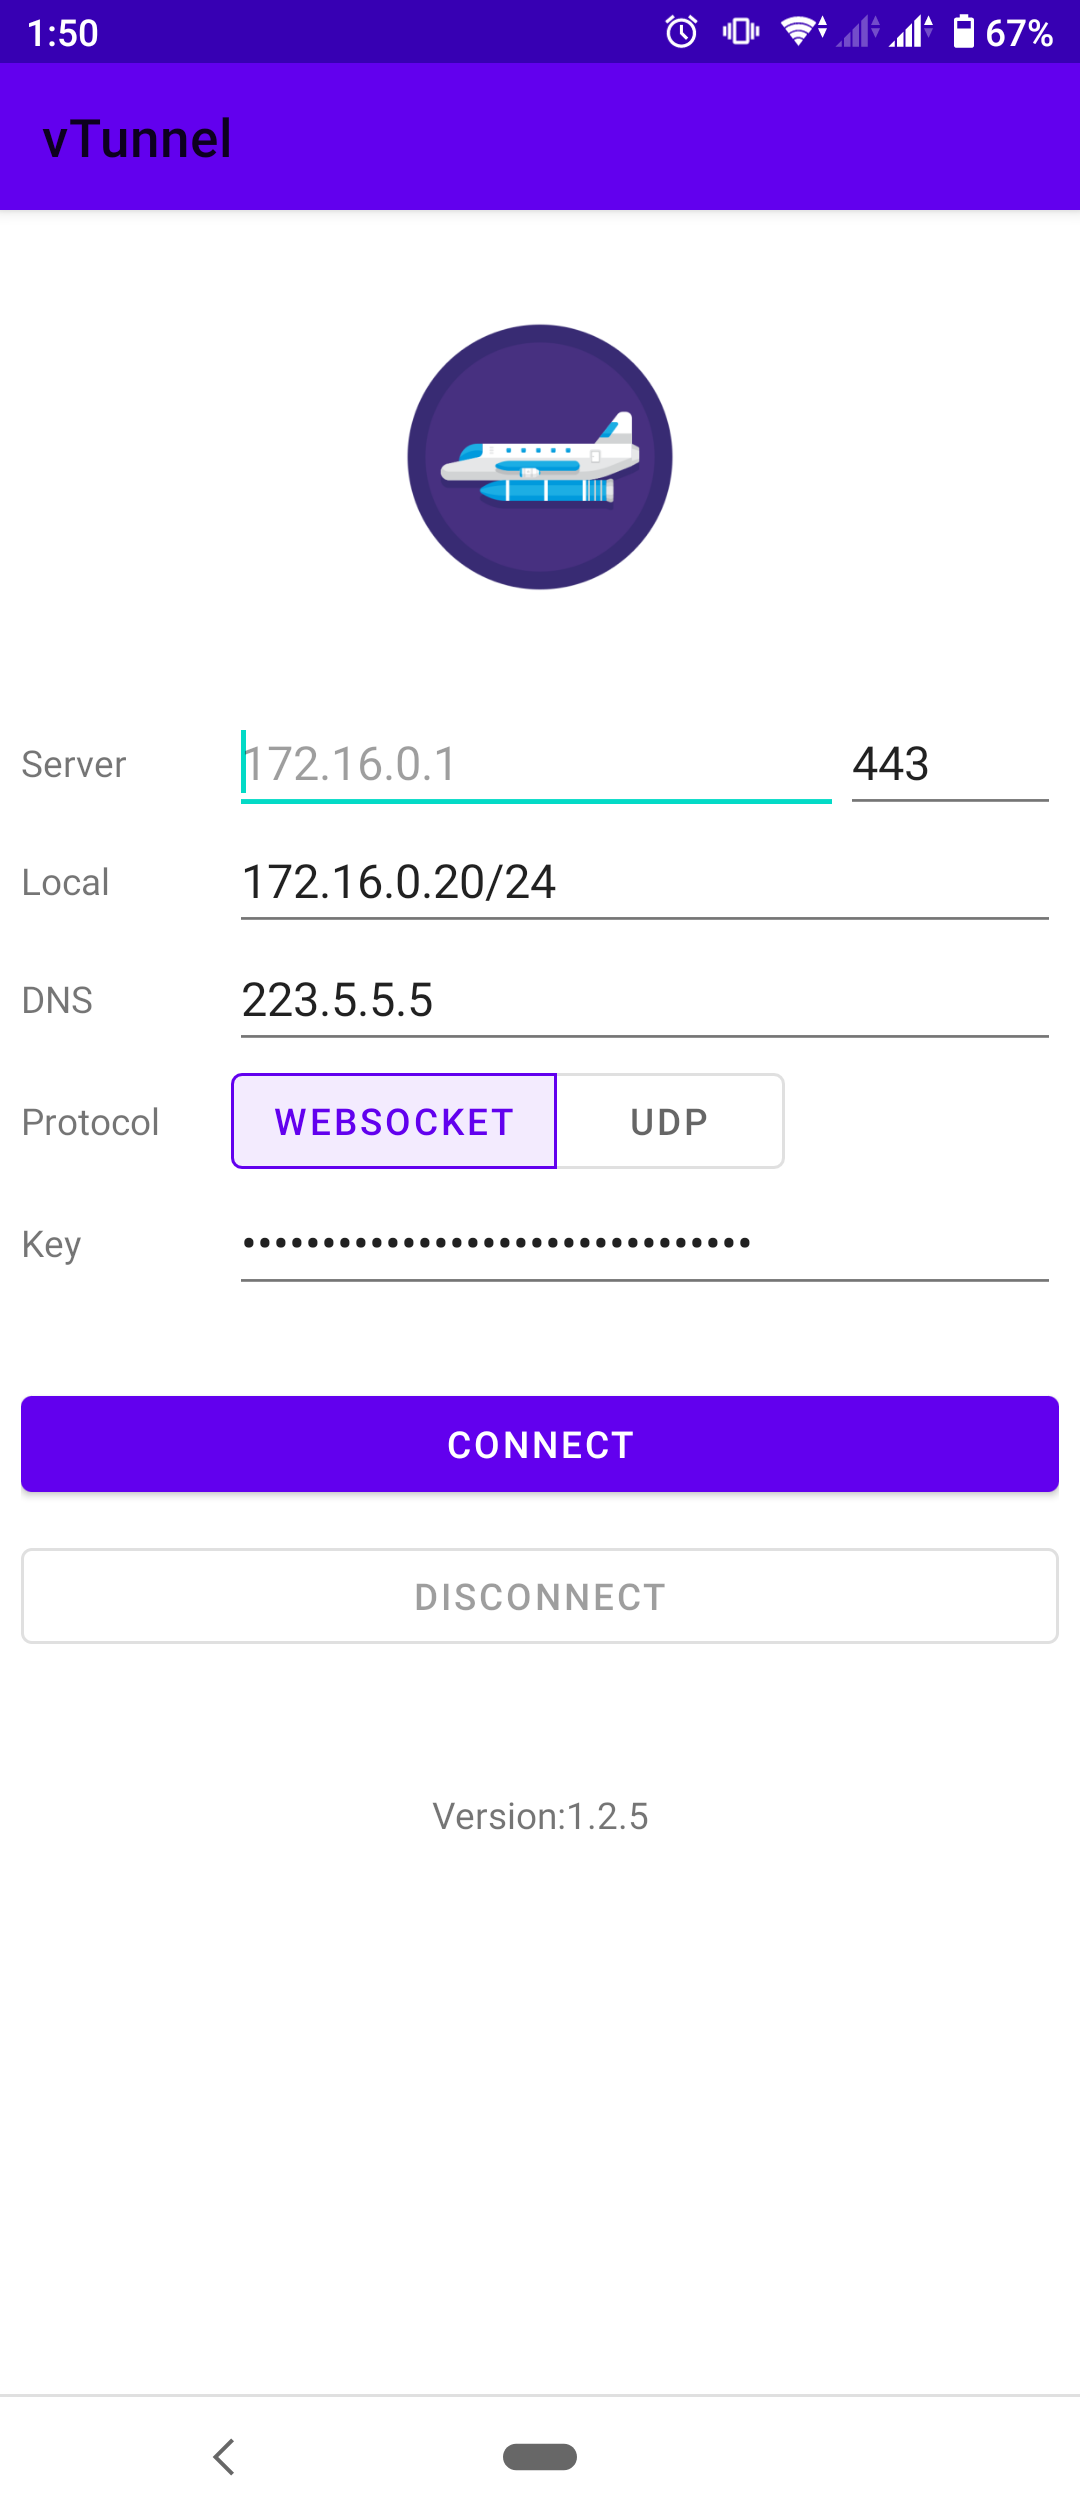
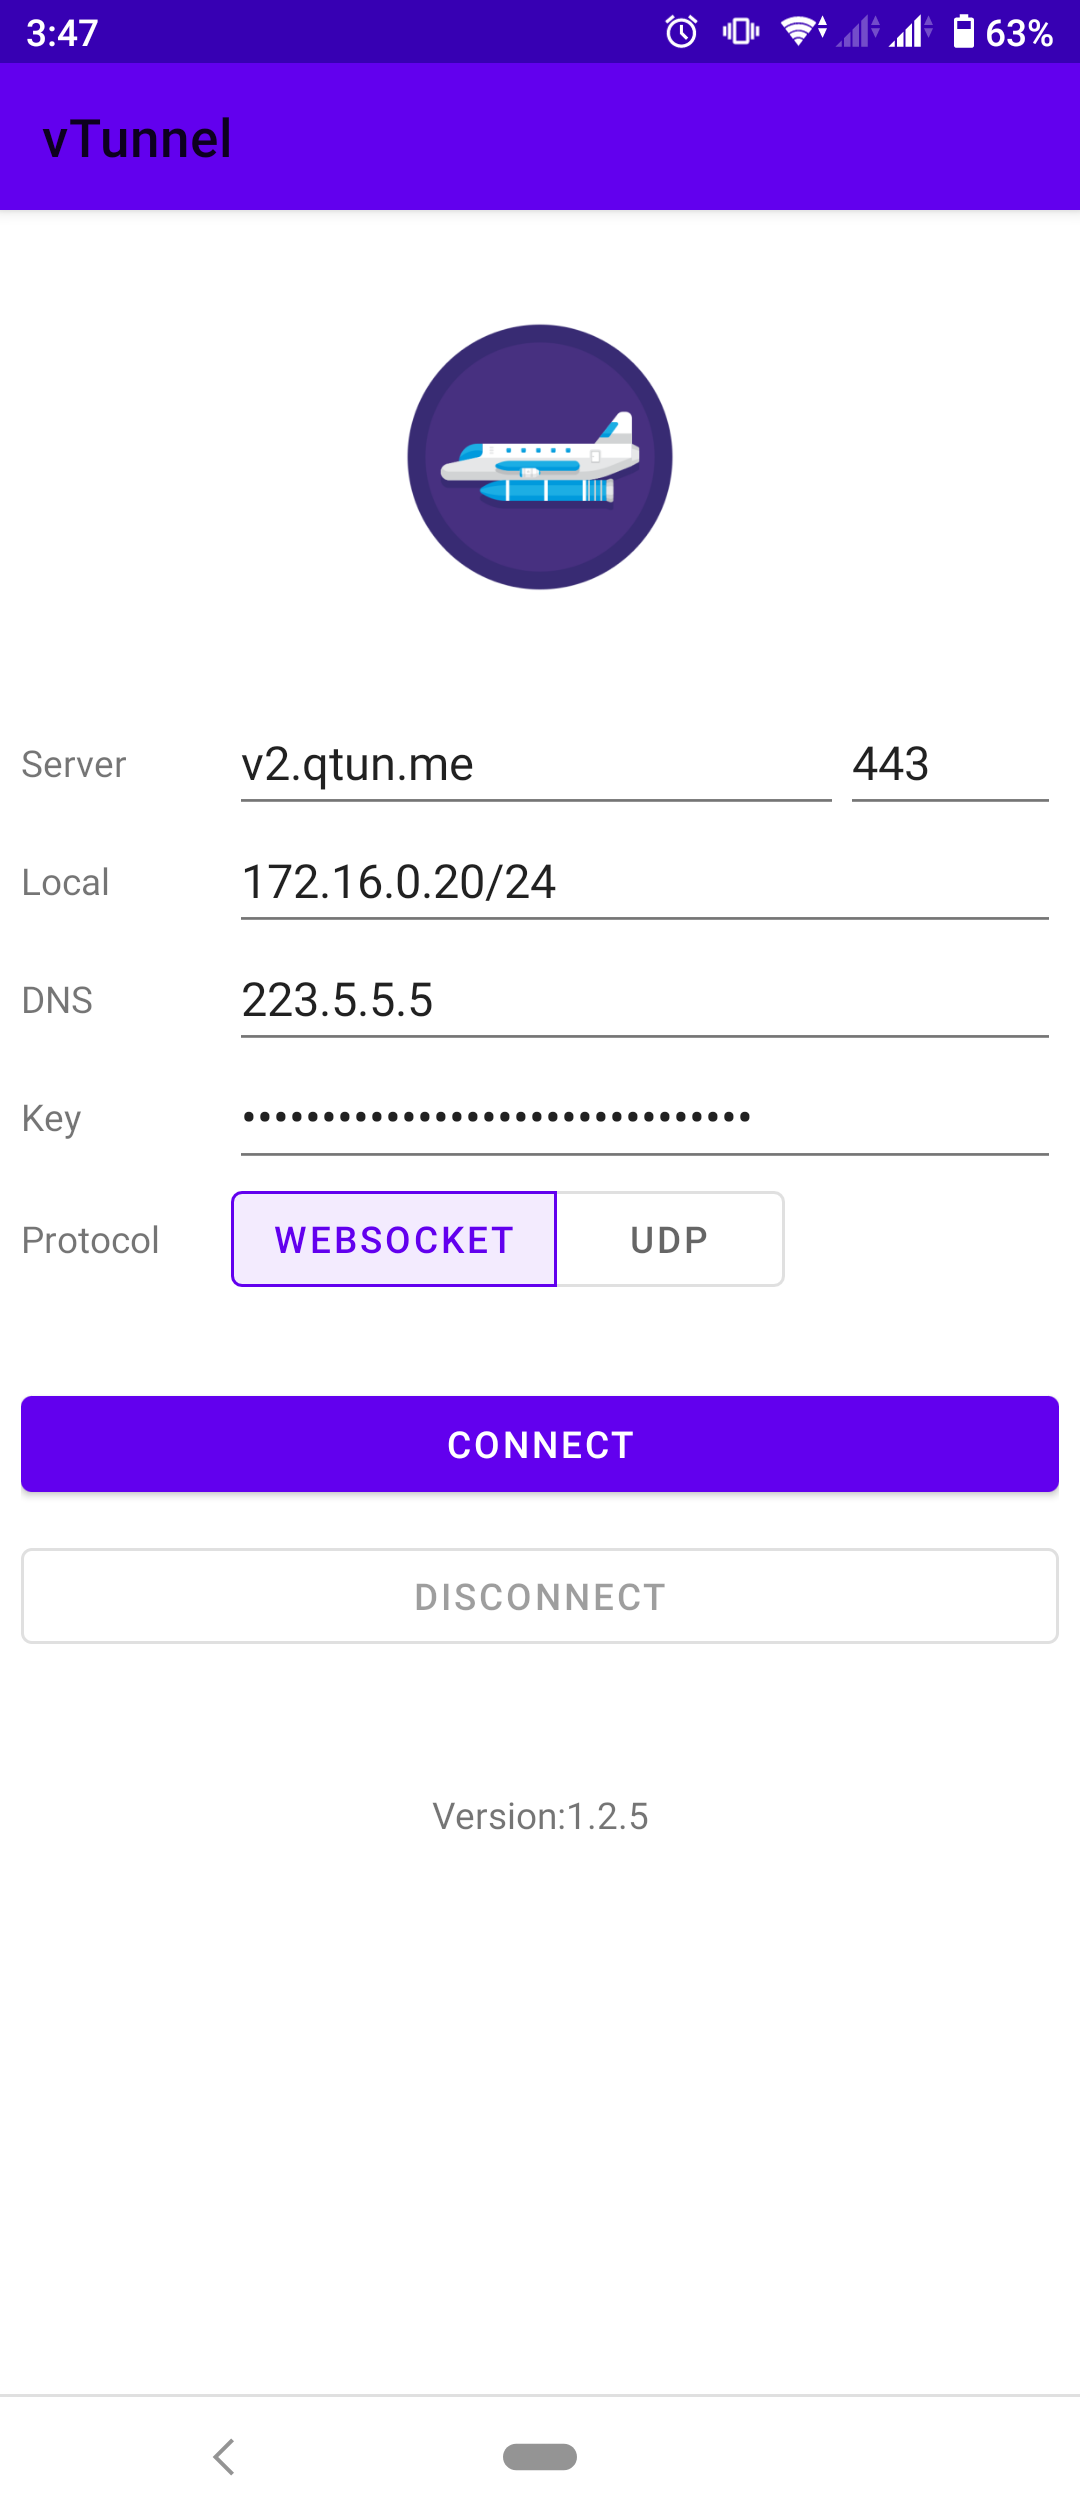
update ui

diff --git a/app/src/main/java/com/netbyte/vtunnel/activity/MainActivity.java b/app/src/main/java/com/netbyte/vtunnel/activity/MainActivity.java
@@ -19,7 +19,7 @@ import com.netbyte.vtunnel.service.VTunnelService;
 
 public class MainActivity extends AppCompatActivity {
     private Button btnConn, btnDisConn;
-    private EditText editServer, editServerPort, editLocal, editDNS, tokenEdit;
+    private EditText editServer, editServerPort, editLocal, editDNS, keyEdit;
     private TextView msgView;
     private MaterialButtonToggleGroup protocolGroup;
     SharedPreferences preferences;
@@ -35,10 +35,10 @@ public class MainActivity extends AppCompatActivity {
         editServer = findViewById(R.id.serverAddressEdit);
         editServerPort = findViewById(R.id.serverPortEdit);
         editLocal = findViewById(R.id.localAddressEdit);
-        msgView = findViewById(R.id.msgTextView);
-        tokenEdit = findViewById(R.id.keyText);
+        keyEdit = findViewById(R.id.keyEdit);
         editDNS = findViewById(R.id.dnsEdit);
         protocolGroup = findViewById(R.id.protocolGroup);
+        msgView = findViewById(R.id.msgTextView);
         preferences = getPreferences(Activity.MODE_PRIVATE);
         preEditor = preferences.edit();
 
@@ -46,7 +46,7 @@ public class MainActivity extends AppCompatActivity {
         editServerPort.setText(preferences.getString("serverPort", AppConst.DEFAULT_SERVER_PORT));
         editLocal.setText(preferences.getString("localIP", AppConst.DEFAULT_LOCAL_ADDRESS));
         editDNS.setText(preferences.getString("dns", AppConst.DEFAULT_DNS));
-        tokenEdit.setText(preferences.getString("token", AppConst.DEFAULT_TOKEN));
+        keyEdit.setText(preferences.getString("key", AppConst.DEFAULT_KEY));
         String preProtocol = preferences.getString("protocol", AppConst.PROTOCOL_WS);
         protocolGroup.check(preProtocol.equals(AppConst.PROTOCOL_WS) ? R.id.protocolBtnWs : R.id.protocolBtnUdp);
         btnDisConn.setEnabled(preferences.getBoolean("connected", false));
@@ -87,7 +87,7 @@ public class MainActivity extends AppCompatActivity {
         String serverPort = editServerPort.getText().toString();
         String localIp = editLocal.getText().toString();
         String dns = editDNS.getText().toString();
-        String token = tokenEdit.getText().toString();
+        String key = keyEdit.getText().toString();
         int buttonId = protocolGroup.getCheckedButtonId();
         String protocol = (buttonId == R.id.protocolBtnWs) ? AppConst.PROTOCOL_WS : AppConst.PROTOCOL_UDP;
         // new intent
@@ -97,7 +97,7 @@ public class MainActivity extends AppCompatActivity {
         intent.putExtra("serverPort", Integer.parseInt(serverPort));
         intent.putExtra("localIP", localIp);
         intent.putExtra("dns", dns);
-        intent.putExtra("token", token);
+        intent.putExtra("key", key);
         intent.putExtra("protocol", protocol);
         // start service
         startService(intent);
@@ -106,7 +106,7 @@ public class MainActivity extends AppCompatActivity {
         preEditor.putString("serverPort", serverPort);
         preEditor.putString("localIP", localIp);
         preEditor.putString("dns", dns);
-        preEditor.putString("token", token);
+        preEditor.putString("key", key);
         preEditor.putString("protocol", protocol);
         preEditor.putBoolean("connected", true);
         preEditor.apply();

diff --git a/app/src/main/java/com/netbyte/vtunnel/service/VTunnelService.java b/app/src/main/java/com/netbyte/vtunnel/service/VTunnelService.java
@@ -28,7 +28,7 @@ public class VTunnelService extends VpnService {
     private static int serverPort;
     private static String dns;
     private static String protocol;
-    private static String token;
+    private static String key;
     private VpnThread udpThread, wsThread;
     private StatThread statThread;
     private PendingIntent pendingIntent;
@@ -86,8 +86,8 @@ public class VTunnelService extends VpnService {
             localPrefixLength = Integer.parseInt(localIPArray[1]);
         }
         dns = ex.getString("dns");
-        token = ex.getString("token");
-        vCipher = new VCipher(token);
+        key = ex.getString("key");
+        vCipher = new VCipher(key);
     }
 
     @RequiresApi(api = Build.VERSION_CODES.O)

diff --git a/app/src/main/java/com/netbyte/vtunnel/config/AppConst.java b/app/src/main/java/com/netbyte/vtunnel/config/AppConst.java
@@ -16,7 +16,7 @@ public class AppConst {
     public static final String DEFAULT_SERVER_PORT = "443";
     public static final String DEFAULT_LOCAL_ADDRESS = "172.16.0.20/24";
     public static final int DEFAULT_LOCAL_PREFIX_LENGTH = 24;
-    public static final String DEFAULT_TOKEN = "6w9z$C&F)J@NcRfWjXn3r4u7x!A%D*G-";
+    public static final String DEFAULT_KEY = "6w9z$C&F)J@NcRfWjXn3r4u7x!A%D*G-";
     public static final String PROTOCOL_WS = "websocket";
     public static final String PROTOCOL_UDP = "udp";
     public static final String DEFAULT_DNS = "223.5.5.5";
